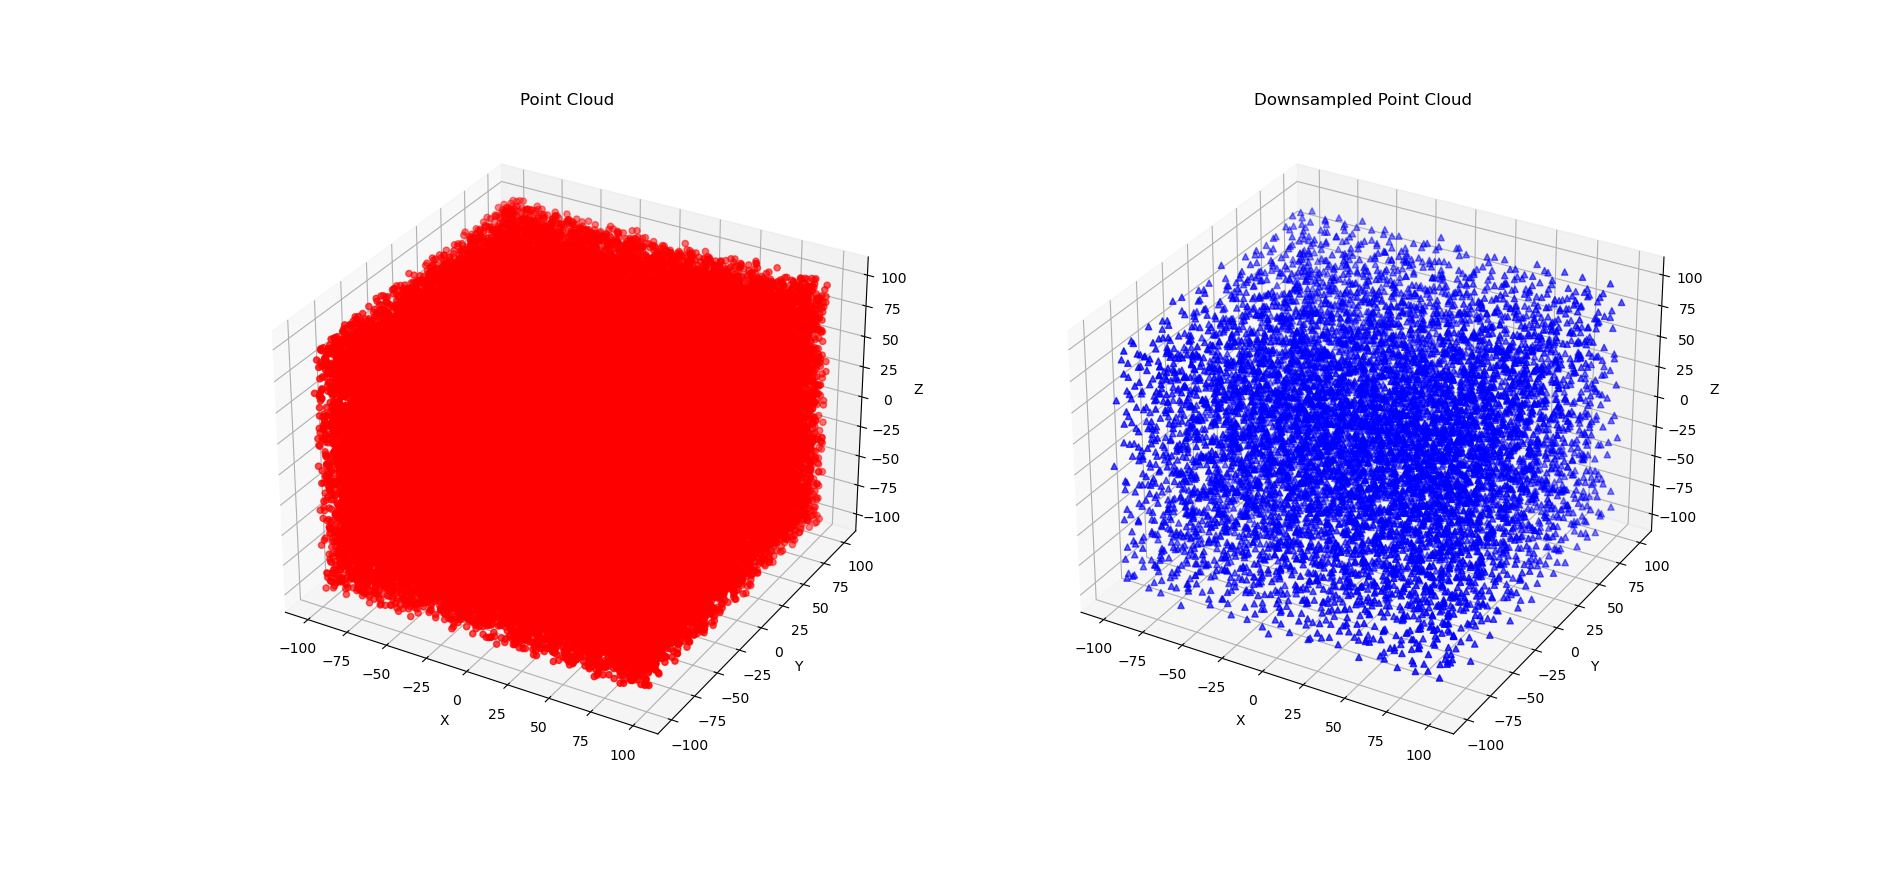
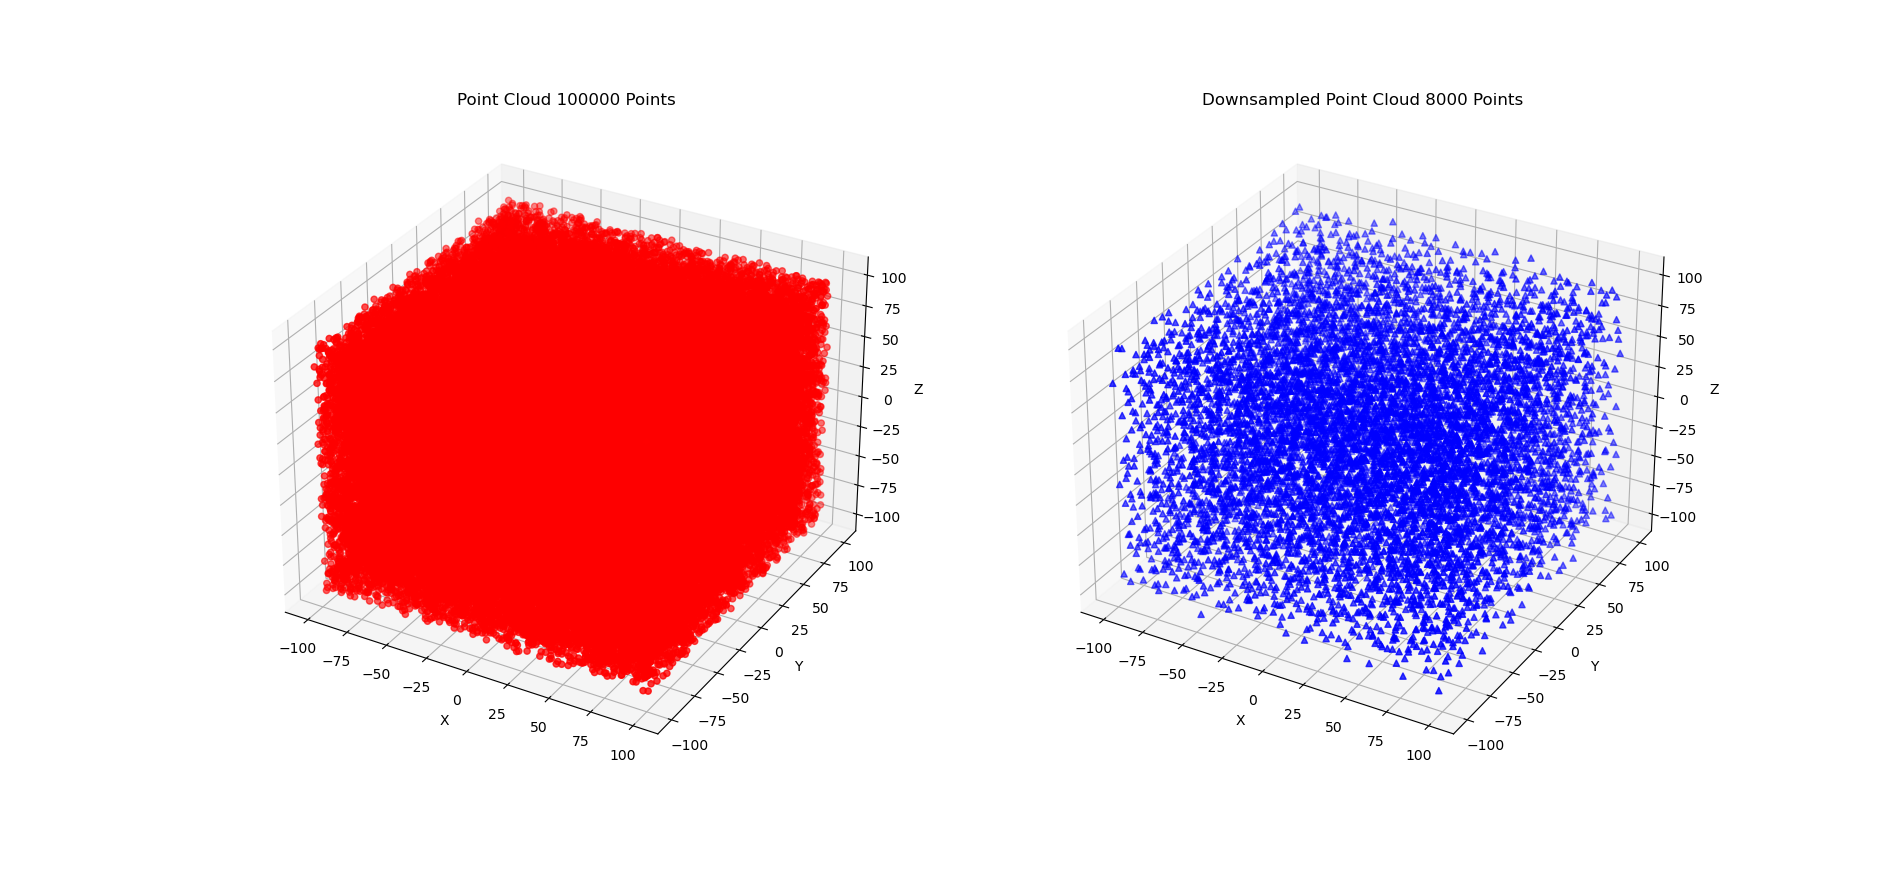
Updated image

diff --git a/test_voxel_grid_downsampling.py b/test_voxel_grid_downsampling.py
@@ -59,7 +59,7 @@ ax1.scatter(
     c="r",
     marker="o",
 )
-ax1.set_title("Point Cloud")
+ax1.set_title(f"Point Cloud {len(input_cloud_list)} Points")
 ax1.set_xlabel("X")
 ax1.set_ylabel("Y")
 ax1.set_zlabel("Z")
@@ -73,7 +73,7 @@ ax2.scatter(
     c="b",
     marker="^",
 )
-ax2.set_title("Downsampled Point Cloud")
+ax2.set_title(f"Downsampled Point Cloud {len(output_cloud_list)} Points")
 ax2.set_xlabel("X")
 ax2.set_ylabel("Y")
 ax2.set_zlabel("Z")
